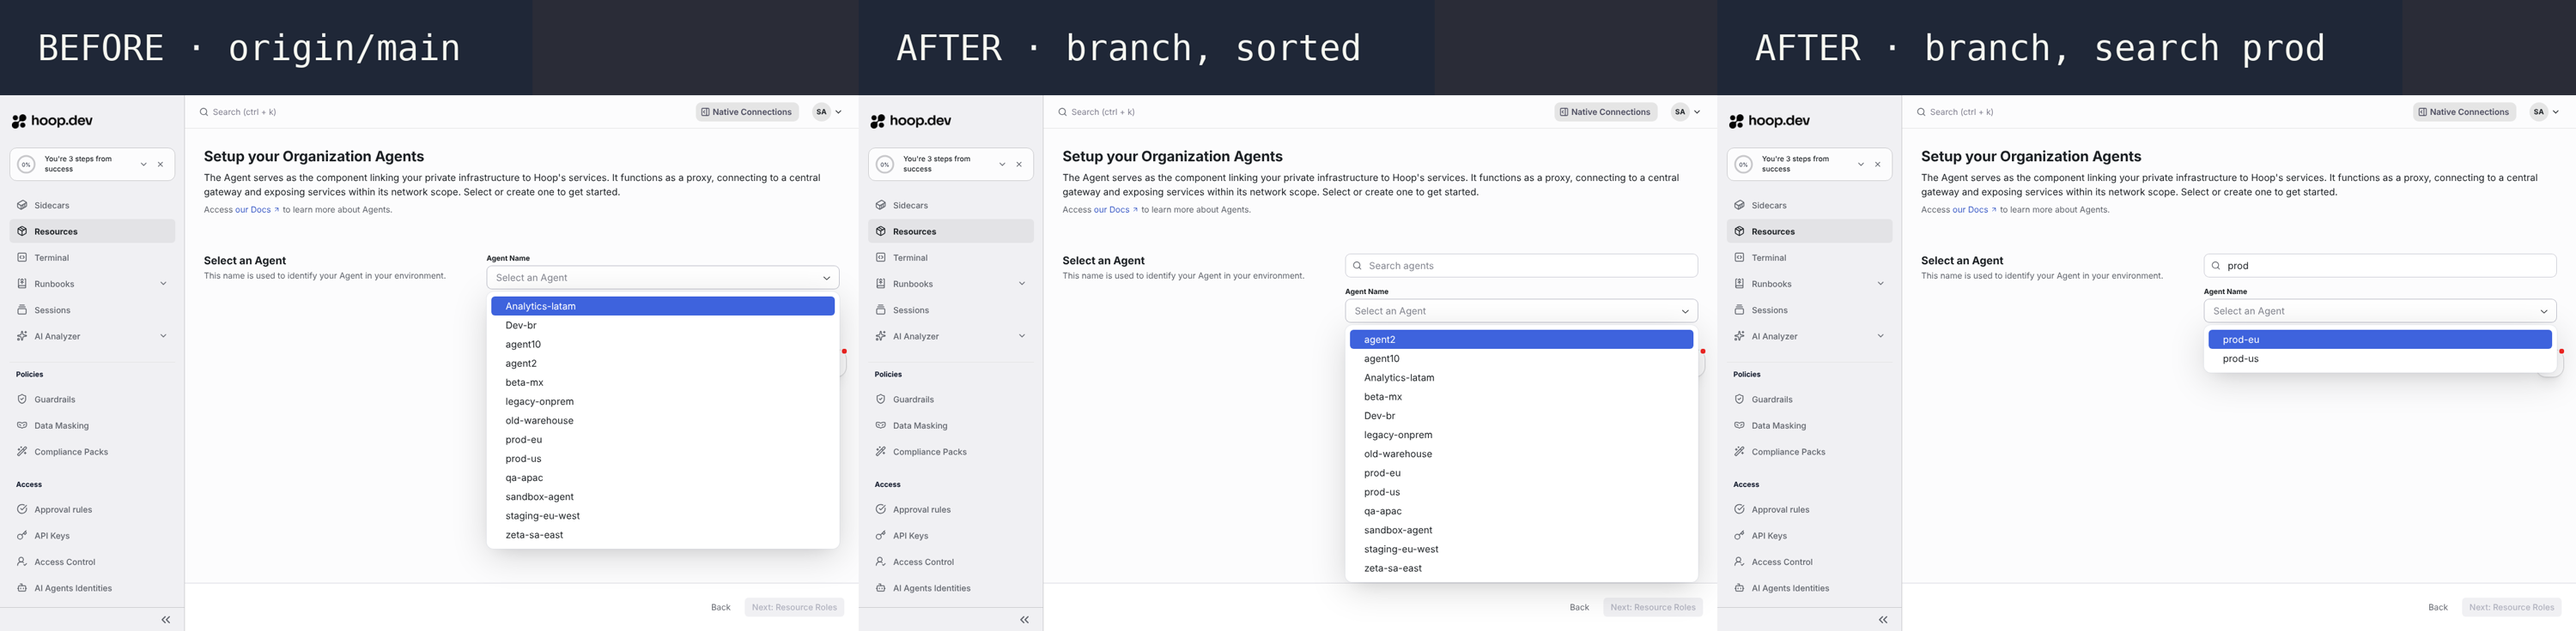
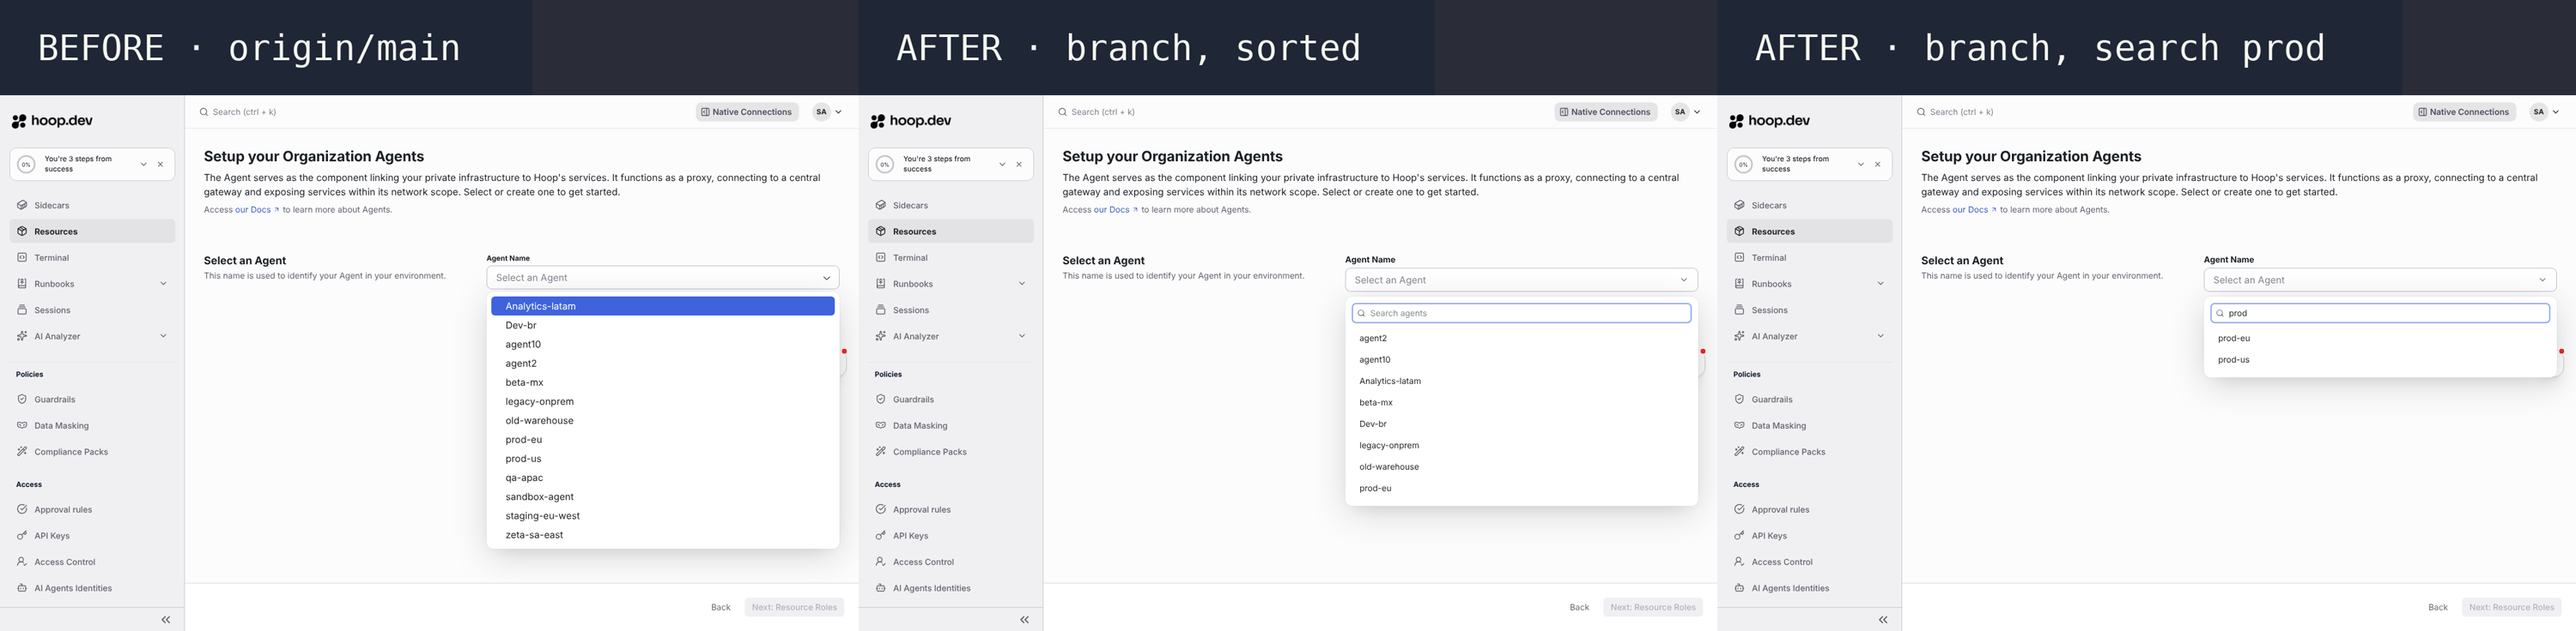
Evidence for ENG-1034

Changed region(s): [[0.527, 0.4062, 0.682, 0.9375], [0.837, 0.4062, 0.992, 0.625]]

diff --git a/ENG-1034/EVIDENCE.md b/ENG-1034/EVIDENCE.md
@@ -1,6 +1,6 @@
 # ENG-1034 · Sort and filter agents on the Agents page and agent pickers
 
-PR #2109 · tested on `a8b0c2b` against `origin/main` `ff3ac67` · 2026-11-04
+PR #2109 · tested on `a8b0c2b` (QA), picker re-checked on `5d380ada` against `origin/main` `ff3ac67` · 2026-11-04
 
 **Result: with 13 agents, the Agents page can be searched, filtered by status and version, and sorted; both agent pickers list agents by name, and the Create Resource picker can be searched.**
 
@@ -17,7 +17,7 @@ Status Online keeps the 5 online agents; search "prod" keeps prod-eu and prod-us
 
 ## 3. Is the Create Resource picker sorted and searchable?
 ![Create Resource picker](3-create-resource-picker.png)
-Left: no search, uppercase first. Middle: sorted by name. Right: "prod" narrows the list.
+Left: no search, uppercase first. Middle: sorted by name, search inside the dropdown (reviewer ask). Right: "prod" narrows the list.
 
 ## 4. Is the Configure Resource picker sorted?
 ![Configure Resource picker](4-configure-resource-picker.png)
@@ -31,6 +31,7 @@ Left: no search, uppercase first. Middle: sorted by name. Right: "prod" narrows 
 Admins with tens of agents (the ticket's customer runs ~30) find an agent by name, status or version instead of scanning an unordered list.
 
 ## Open items
+- The dropdown search (`5d380ada`, after review) was checked by the author on a sandbox stack, not by a new QA round.
 - Still screenshots, not a recorded flow: no Docker in this sandbox, and QA's stacks were stopped.
 - CLJS karma tests run by hand only: no CI job runs them (true before this PR).
 - `Integration Test (mysql)` failed on `a8b0c2b` in `TestMySQL_ParallelSessions` (Go agent code this PR does not touch; it passed on `4764b4d`). It needs a re-run by a person.
